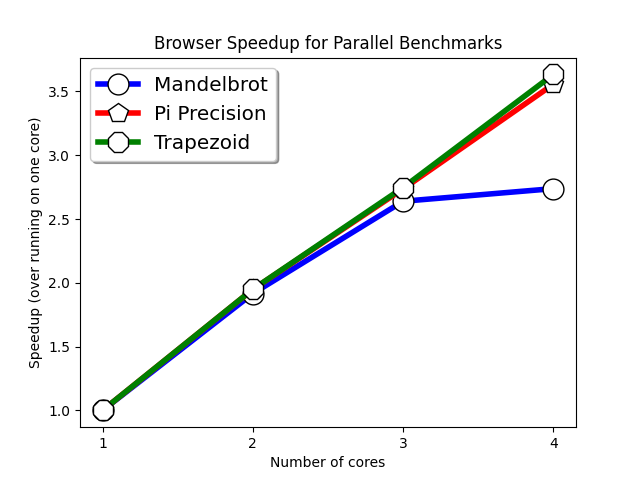
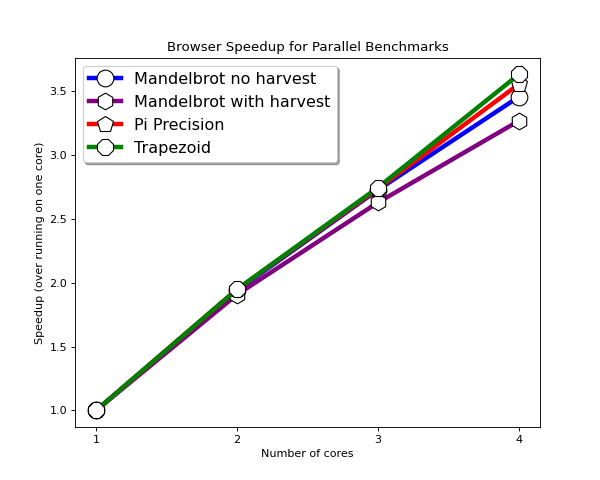
Updated visualisations for parallel execution

diff --git a/benchmarks/browser/parallel/mandelbrot/mandelbrot.js b/benchmarks/browser/parallel/mandelbrot/mandelbrot.js
@@ -1,9 +1,9 @@
-import actors from '../../actors.js';
+import actors from '../../../actors.js';
 const { init, spawn, spawnRemote, terminate, send, closeConnection } = actors
 
 const constants = {
-    width: 6000,
-    height: 4000,
+    width: 12000,
+    height: 8000,
     realStart: -2,
     realEnd: 1,
     imaginaryStart: -1,
@@ -11,34 +11,30 @@ const constants = {
     iterations: 80
 }
 
-const K = 3;
-const step = 200;
-const rounds = 100;
+const K = 4;
+const step = 180;
+const rounds = 5;
 
 const rowRendererBehaviour = (state, message, self) => {
-    const add = (x, y) => ({re: x.re + y.re, im: x.im + y.im});   
-    const mul = (x, y) => ({re: x.re*y.re - x.im*y.im, im: x.re*y.im + x.im*y.re}); 
-    const abs = z => Math.sqrt(z.re*z.re+z.im*z.im); 
-
-    const mandelbrot = c => {        
-        let z = {re: 0, im: 0};
-        let n = 0;
-        while(abs(z) <= 2 && n < state.iterations){
-            z = add(mul(z, z), c);
-            n++;
-        }
-        return n;
-    };
-
     const pixelRows = [];
 
     for(let y = message.start; y < message.end; y++){
         const row = [];
         for(let x = 0; x < state.width; x++){
-            const c = {re: state.realStart + (x / state.width) * (state.realEnd - state.realStart),
-                    im: state.imaginaryStart + (y / state.height) * (state.imaginaryEnd - state.imaginaryStart)};
-            const m = mandelbrot(c);
-            const colour = 255 - parseInt(m * 255 / state.iterations);
+            const cre = state.realStart + (x / state.width) * (state.realEnd - state.realStart);
+            const cim = state.imaginaryStart + (y / state.height) * (state.imaginaryEnd - state.imaginaryStart);
+            let zre = 0;
+            let zim = 0;
+            let n = 0;
+            while(Math.sqrt(zre*zre+zim*zim) <= 2 && n < state.iterations){
+                const zreOld = zre;
+                zre = zre*zre - zim*zim;
+                zim = zreOld*zim + zim*zreOld;
+                zre = zre+cre;
+                zim = zim+cim;
+                n++;
+            }
+            const colour = 255 - parseInt(n * 255 / state.iterations);
             row.push(colour);
         }
         pixelRows.push(row);
@@ -85,12 +81,10 @@ init('ws://localhost:8080', 0x7FFFFFF, K, './parallel/mandelbrot/mandelbrot.js')
                         else{
                             closeConnection();
                         }
-                    }else{   
-                        if(state.nextRow !== state.constants.height){           
+                    }else if(state.nextRow !== state.constants.height){           
                             const end = state.nextRow+step >= state.constants.height ? state.constants.height : state.nextRow+step  
                             send(message.from, {start: state.nextRow, end, sender: self});
                             state.nextRow = end;
-                        }
                     }
                 break;
             }

diff --git a/benchmarks/browser/parallel/mandelbrot/mandelbrotnoharvest.js b/benchmarks/browser/parallel/mandelbrot/mandelbrotnoharvest.js
@@ -1,6 +1,5 @@
-import actors from '../../../../src/actors.js';
+import actors from '../../../actors.js';
 const { init, spawn, spawnRemote, terminate, send, closeConnection } = actors
-import fs from 'fs';
 
 const constants = {
     width: 12000,
@@ -12,10 +11,9 @@ const constants = {
     iterations: 80
 }
 
-const K = parseInt(process.argv.slice(2)[0]);
-const step = parseInt(process.argv.slice(2)[1]);
-const rounds = parseInt(process.argv.slice(2)[2]);
-const output = process.argv.slice(2)[3] === "true";
+const K = 4;
+const step = 180;
+const rounds = 5;
 
 const rowRendererBehaviour = (state, message, self) => {
     const pixelRows = [];
@@ -41,7 +39,7 @@ const rowRendererBehaviour = (state, message, self) => {
     send(message.sender, {header: "ROWS", pixelRows, start: message.start, from: self});
 };
 
-init('ws://localhost:8080', 0x7FFFFFF, K).then(ready => {    
+init('ws://localhost:8080', 0x7FFFFFF, K, './parallel/mandelbrot/mandelbrotnoharvest.js').then(ready => {    
     if(ready.yourNetworkNumber === 1){
         const imageRenderer = spawn({rounds, constants, rowRendererBehaviour, responses: {}, image: [], receivedRows: 0, nextRow: 0, actors: []}, (state, message, self) => {
             switch(message.header){
@@ -67,9 +65,7 @@ init('ws://localhost:8080', 0x7FFFFFF, K).then(ready => {
                             for(const row of state.responses[i])
                                 state.image.push(row);
                         
-                        if(output)                            
-                            fs.writeFile("mandelbrot.json", JSON.stringify(state.image), err => {closeConnection()});                        
-                        else if(--state.rounds !== 0){
+                        if(--state.rounds !== 0){
                             state.responses = {};
                             state.image = [];
                             state.receivedRows = 0;

diff --git a/benchmarks/node/parallel/mandelbrot/mandelbrot.js b/benchmarks/node/parallel/mandelbrot/mandelbrot.js
@@ -3,8 +3,8 @@ const { init, spawn, spawnRemote, terminate, send, closeConnection } = actors
 import fs from 'fs';
 
 const constants = {
-    width: 6000,
-    height: 4000,
+    width: 12000,
+    height: 8000,
     realStart: -2,
     realEnd: 1,
     imaginaryStart: -1,
@@ -85,12 +85,10 @@ init('ws://localhost:8080', 0x7FFFFFF, K).then(ready => {
                         else{
                             closeConnection();
                         }
-                    }else{   
-                        if(state.nextRow !== state.constants.height){           
+                    }else if(state.nextRow !== state.constants.height){           
                             const end = state.nextRow+step >= state.constants.height ? state.constants.height : state.nextRow+step  
                             send(message.from, {start: state.nextRow, end, sender: self});
                             state.nextRow = end;
-                        }
                     }
                 break;
             }

diff --git a/benchmarks/browser/index.html b/benchmarks/browser/index.html
@@ -9,6 +9,7 @@
     <!-- <script type="module" src="./singlethread/pingpong.js"></script> -->
     <!-- <script type="module" src="./singlethread/threadring.js"></script> -->
     <!-- <script type="module" src="./parallel/mandelbrot/mandelbrot.js"></script> -->
+    <script type="module" src="./parallel/mandelbrot/mandelbrotnoharvest.js"></script>
     <!-- <script type="module" src="./parallel/piprecision.js"></script> -->
     <!-- <script type="module" src="./parallel/trapezoid.js"></script> -->
     <!-- <script type="module" src="./parallel/pingpongnet.js"></script> -->

diff --git a/benchmarks/visualisations/speedupgraph.py b/benchmarks/visualisations/speedupgraph.py
@@ -1,22 +1,28 @@
 import pandas
 import matplotlib.pyplot as plt
+from matplotlib.pyplot import figure
 import numpy as np
 import os
 import re
 
 keys = [1,2,3,4]
-mandelbrot_data = {}
+mandelbrot_noharvest_data = {}
+mandelbrot_withharvest_data = {}
 piprecision_data = {}
 trapezoid_data = {}
 for processes in keys:
-    mandelbrot_data[processes] = []
+    mandelbrot_noharvest_data[processes] = []
+    mandelbrot_withharvest_data[processes] = []
     piprecision_data[processes] = []
     trapezoid_data[processes] = []
     
     #Scrape node data
+    with open(f'../node/parallel/mandelbrot/results/mandelbrotnoharvest_{processes}worker.txt') as f:
+        for line in f.readlines():
+            mandelbrot_noharvest_data[processes].append(int(line.strip()))
     with open(f'../node/parallel/mandelbrot/results/mandelbrot_{processes}worker.txt') as f:
         for line in f.readlines():
-            mandelbrot_data[processes].append(int(line.strip()))
+            mandelbrot_withharvest_data[processes].append(int(line.strip()))
     with open(f'../node/parallel/results/piprecision_{processes}worker.txt') as f:
         for line in f.readlines():
             piprecision_data[processes].append(int(line.strip()))
@@ -25,31 +31,38 @@ for processes in keys:
             trapezoid_data[processes].append(int(line.strip()))
             
             
-mandelbrot_speedup = [np.average(mandelbrot_data[1])/np.average(mandelbrot_data[key]) for key in keys]
+mandelbrot_noharvest_speedup = [np.average(mandelbrot_noharvest_data[1])/np.average(mandelbrot_noharvest_data[key]) for key in keys]
+mandelbrot_withharvest_speedup = [np.average(mandelbrot_withharvest_data[1])/np.average(mandelbrot_withharvest_data[key]) for key in keys]
 piprecision_speedup = [np.average(piprecision_data[1])/np.average(piprecision_data[key]) for key in keys]
 trapezoid_speedup = [np.average(trapezoid_data[1])/np.average(trapezoid_data[key]) for key in keys]
 
-fig, ax = plt.subplots()
+figure(figsize=(7.5, 6), dpi=80)
 
-ax.plot(keys, mandelbrot_speedup, '-o', color='blue',
+plt.plot(keys, mandelbrot_noharvest_speedup, '-o', color='blue',
         markersize=15, linewidth=4,
         markerfacecolor='white',
         markeredgecolor='black',
-        markeredgewidth=1, label='Mandelbrot');
+        markeredgewidth=1, label='Mandelbrot no harvest');
 
-ax.plot(keys, piprecision_speedup, '-p', color='red',
+plt.plot(keys, mandelbrot_withharvest_speedup, '-h', color='purple',
+        markersize=15, linewidth=4,
+        markerfacecolor='white',
+        markeredgecolor='black',
+        markeredgewidth=1, label='Mandelbrot with harvest');
+
+plt.plot(keys, piprecision_speedup, '-p', color='red',
     markersize=15, linewidth=4,
     markerfacecolor='white',
     markeredgecolor='black',
     markeredgewidth=1, label='Pi Precision');
 
-ax.plot(keys, trapezoid_speedup, '-8', color='green',
+plt.plot(keys, trapezoid_speedup, '-8', color='green',
     markersize=15, linewidth=4,
     markerfacecolor='white',
     markeredgecolor='black',
     markeredgewidth=1, label='Trapezoid');
 
-legend = ax.legend(loc='upper left', shadow=True, fontsize='x-large')
+legend = plt.legend(loc='upper left', shadow=True, fontsize='x-large')
 
 plt.locator_params(axis="x", integer=True, tight=True)
 plt.title('Node Speedup for Parallel Benchmarks')
@@ -67,21 +80,28 @@ def scrape_log_line(line, search):
         return int(reading)
             
 
-mandelbrot_data = {}
+mandelbrot_noharvest_data = {}
+mandelbrot_withharvest_data = {}
 piprecision_data = {}
 trapezoid_data = {}
 
 for processes in keys:
-    mandelbrot_data[processes] = []
+    mandelbrot_noharvest_data[processes] = []
+    mandelbrot_withharvest_data[processes] = []
     piprecision_data[processes] = []
     trapezoid_data[processes] = []
     
-    #Scrape node data
+    #Scrape browser data
     with open(f'../browser/parallel/mandelbrot/results/mandelbrot_{processes}worker.log') as f:
         for line in f.readlines():
             reading = scrape_log_line(line, 'source: http://localhost:3000/parallel/mandelbrot/')
             if reading is not None:
-                mandelbrot_data[processes].append(reading)
+                mandelbrot_withharvest_data[processes].append(reading)
+    with open(f'../browser/parallel/mandelbrot/results/mandelbrotnoharvest_{processes}worker.log') as f:
+        for line in f.readlines():
+            reading = scrape_log_line(line, 'source: http://localhost:3000/parallel/mandelbrot/')
+            if reading is not None:
+                mandelbrot_noharvest_data[processes].append(reading)
     with open(f'../browser/parallel/results/piprecision_{processes}worker.log') as f:
         for line in f.readlines():            
             reading = scrape_log_line(line, 'source: http://localhost:3000/parallel/')
@@ -93,31 +113,39 @@ for processes in keys:
             if reading is not None:
                 trapezoid_data[processes].append(reading)
             
-mandelbrot_speedup = [np.average(mandelbrot_data[1])/np.average(mandelbrot_data[key]) for key in keys]
+mandelbrot_noharvest_speedup = [np.average(mandelbrot_noharvest_data[1])/np.average(mandelbrot_noharvest_data[key]) for key in keys]
+mandelbrot_withharvest_speedup = [np.average(mandelbrot_withharvest_data[1])/np.average(mandelbrot_withharvest_data[key]) for key in keys]
 piprecision_speedup = [np.average(piprecision_data[1])/np.average(piprecision_data[key]) for key in keys]
 trapezoid_speedup = [np.average(trapezoid_data[1])/np.average(trapezoid_data[key]) for key in keys]
 
-fig, ax = plt.subplots()
+figure(figsize=(7.5, 6), dpi=80)
 
-ax.plot(keys, mandelbrot_speedup, '-o', color='blue',
+print(mandelbrot_withharvest_data)
+plt.plot(keys, mandelbrot_noharvest_speedup, '-o', color='blue',
         markersize=15, linewidth=4,
         markerfacecolor='white',
         markeredgecolor='black',
-        markeredgewidth=1, label='Mandelbrot');
+        markeredgewidth=1, label='Mandelbrot no harvest');
 
-ax.plot(keys, piprecision_speedup, '-p', color='red',
+plt.plot(keys, mandelbrot_withharvest_speedup, '-h', color='purple',
+        markersize=15, linewidth=4,
+        markerfacecolor='white',
+        markeredgecolor='black',
+        markeredgewidth=1, label='Mandelbrot with harvest');
+
+plt.plot(keys, piprecision_speedup, '-p', color='red',
     markersize=15, linewidth=4,
     markerfacecolor='white',
     markeredgecolor='black',
     markeredgewidth=1, label='Pi Precision');
 
-ax.plot(keys, trapezoid_speedup, '-8', color='green',
+plt.plot(keys, trapezoid_speedup, '-8', color='green',
     markersize=15, linewidth=4,
     markerfacecolor='white',
     markeredgecolor='black',
     markeredgewidth=1, label='Trapezoid');
 
-legend = ax.legend(loc='upper left', shadow=True, fontsize='x-large')
+legend = plt.legend(loc='upper left', shadow=True, fontsize='x-large')
 
 plt.locator_params(axis="x", integer=True, tight=True)
 plt.title('Browser Speedup for Parallel Benchmarks')
